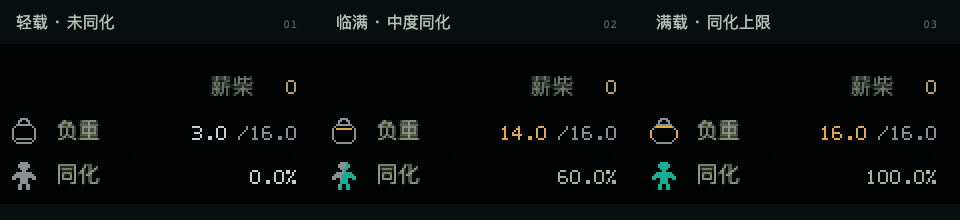
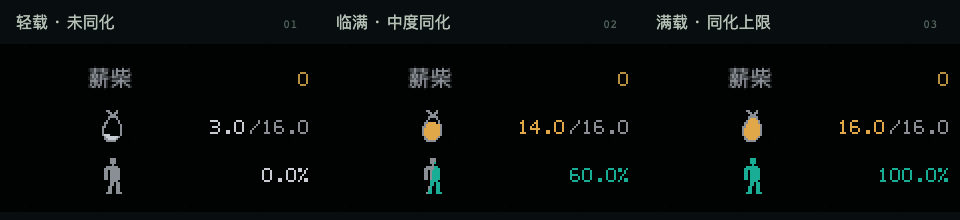
art: refine compact rift HUD symbols and align readouts

diff --git a/docs/art/previews/rift-hud-pressure/study.js b/docs/art/previews/rift-hud-pressure/study.js
@@ -45,27 +45,28 @@ function pixelText(target,text,x,y,color,size=11,align='left') {
   }
 }
 
+// One identifier column, one numeric right edge, equal 24px row pitch.
+const hudLayout=Object.freeze({width:112,height:68,identifierWidth:24,valueRight:110,rowPitch:24});
 function paintHud(target,s,time=0,feedback=0) {
-  target.clearRect(0,0,148,64);target.imageSmoothingEnabled=false;
-  pixelText(target,'薪柴',123,0,'#71816e',10,'right');
-  pixelText(target,'0',144,0,'#b39b75',11,'right');
-  drawBurden(target,0,20,s.weight/16,time,feedback);
-  pixelText(target,'负重',24,22,'#8e9b83',10);
-  pixelText(target,s.weight.toFixed(1),109,23,s.weight>=14?'#e0a848':'#c8cdd4',12,'right');
-  pixelText(target,'/16.0',115,23,'#8a8f96',10);
-  drawAssimilation(target,0,42,s.assimilation,time,s.growing&&s.assimilation<100&&s.assimilation>0);
-  pixelText(target,'同化',24,44,'#8e9b83',10);
-  pixelText(target,`${s.assimilation.toFixed(1)}%`,144,45,s.assimilation>=60?'#a5b09a':'#c8cdd4',12,'right');
+  target.clearRect(0,0,hudLayout.width,hudLayout.height);target.imageSmoothingEnabled=false;
+  pixelText(target,'薪柴',0,4,'#8a8f96',10);
+  pixelText(target,'0',hudLayout.valueRight,4,'#b89040',11,'right');
+  drawBurden(target,4,24,s.weight/16,time,feedback);
+  const weight=s.weight.toFixed(1),capacity='/16.0';
+  pixelText(target,weight,hudLayout.valueRight-capacity.length*6-2,28,s.weight>=14?'#e0a848':'#c8cdd4',12,'right');
+  pixelText(target,capacity,hudLayout.valueRight,28,'#8a8f96',10,'right');
+  drawAssimilation(target,4,48,s.assimilation,time,s.growing&&s.assimilation<100&&s.assimilation>0);
+  pixelText(target,`${s.assimilation.toFixed(1)}%`,hudLayout.valueRight,52,s.assimilation>=60?'#1aad96':'#c8cdd4',12,'right');
 }
 
 function paintComparison() {
   const c=comparison.getContext('2d');c.imageSmoothingEnabled=false;c.fillStyle='#080d10';c.fillRect(0,0,960,220);
   presets.forEach((s,i)=>{
     const x=i*320;
-    c.drawImage(scene,784,8,160,80,x,44,320,160);
-    const tile=document.createElement('canvas');tile.width=148;tile.height=64;
+    c.drawImage(scene,784,16,160,84,x,44,320,168);
+    const tile=document.createElement('canvas');tile.width=hudLayout.width;tile.height=hudLayout.height;
     paintHud(tile.getContext('2d'),s,0,0);
-    c.drawImage(tile,x+8,76,296,128);
+    c.drawImage(tile,x+88,60,hudLayout.width*2,hudLayout.height*2);
     c.font='16px "PingFang SC",sans-serif';c.fillStyle='#b5c1b5';c.fillText(s.title,x+16,28);
     c.fillStyle='#52645b';c.font='12px monospace';c.fillText(`0${i+1}`,x+283,28);
   });
@@ -73,11 +74,11 @@ function paintComparison() {
 
 function paintMarks() {
   const c=marks.getContext('2d');c.imageSmoothingEnabled=false;c.fillStyle='#0b1013';c.fillRect(0,0,960,138);
-  const tile=document.createElement('canvas');tile.width=16;tile.height=16;const t=tile.getContext('2d');
+  const tile=document.createElement('canvas');tile.width=markSize.width;tile.height=markSize.height;const t=tile.getContext('2d');
   [3/16,14/16,1,0,60,100].forEach((v,i)=>{
-    t.clearRect(0,0,16,16);
+    t.clearRect(0,0,markSize.width,markSize.height);
     if(i<3)drawBurden(t,0,0,v,0,0);else drawAssimilation(t,0,0,v,0,false);
-    c.drawImage(tile,i*160+48,20,64,64);
+    c.drawImage(tile,i*160+48,12,markSize.width*4,markSize.height*4);
     c.fillStyle='#98a79d';c.textAlign='center';c.font='11px "PingFang SC",sans-serif';
     c.fillText(i<3?`负重 ${(v*16).toFixed(1)} / 16.0`:`同化 ${v}%`,i*160+80,118);
   });
@@ -99,11 +100,11 @@ document.querySelector('#replay').addEventListener('click',()=>state.feedbackSta
 await scene.decode();await document.fonts.ready;
 paintComparison();paintMarks();sync();
 window.__hudArt = {
-  presets, markSize,
+  presets, markSize, hudLayout,
   renderPreset(index){Object.assign(state,presets[index]);state.growing=false;sync();paintHud(ctx,state,0,0);},
   getState(){return {...state};},
   getSpriteSheet(){
-    const c=document.createElement('canvas');c.width=96;c.height=16;const g=c.getContext('2d');
+    const c=document.createElement('canvas');c.width=markSize.width*6;c.height=markSize.height;const g=c.getContext('2d');
     presets.forEach((s,i)=>{drawBurden(g,i*16,0,s.weight/16,0,0);drawAssimilation(g,(i+3)*16,0,s.assimilation,0,false);});
     return c.toDataURL('image/png');
   },

diff --git a/docs/art/previews/rift-hud-pressure/pixel-marks.js b/docs/art/previews/rift-hud-pressure/pixel-marks.js
@@ -1,7 +1,7 @@
-/** Art study only: 16 × 16 pixel symbols, at most two colours per frame. */
-const P = { neutral:'#8a8f96', warning:'#e0a848', alien:'#1aad96' };
+/** Art study only: 16 × 20 hard-pixel symbols, at most two colours per frame. */
+const P = { neutral:'#8a8f96', load:'#c8cdd4', warning:'#e0a848', alien:'#1aad96' };
 const clamp = (n,min,max) => Math.max(min,Math.min(max,Number(n)||0));
-export const markSize = Object.freeze({width:16,height:16});
+export const markSize = Object.freeze({width:16,height:20});
 
 function stamp(ctx,x,y,cells,colors) {
   ctx.save();ctx.imageSmoothingEnabled=false;
@@ -12,60 +12,66 @@ function stamp(ctx,x,y,cells,colors) {
 }
 
 export function drawBurden(ctx,x,y,ratio,time=0,feedback=0) {
-  const r=clamp(ratio,0,1),full=r>=.985;
+  const r=clamp(ratio,0,1);
   const rows=[
     '................',
-    '......NNNN......',
-    '.....NN..NN.....',
-    '.....N....N.....',
-    '....NNNNNNNN....',
-    '...N........N...',
-    '..N..........N..',
-    '..N..........N..',
-    '..N..........N..',
-    '..N..........N..',
-    '..N..........N..',
-    '..N..........N..',
-    '...N........N...',
-    '....NNNNNNNN....',
+    '.....NN...N.....',
+    '......NN.NN.....',
+    '.......NNN......',
+    '......NNNNN.....',
+    '......NIIIN.....',
+    '.....NIIIIIN....',
+    '....NNIIIIIN....',
+    '....NIIIIIIIN...',
+    '...NNIIIIIIIN...',
+    '...NIIIIIIIIN...',
+    '...NIIIIIIIIN...',
+    '...NIIIIIIIIN...',
+    '...NIIIIIIIIN...',
+    '....NIIIIIIN....',
+    '....NNIIIIN.....',
+    '.....NNNNN......',
+    '................',
     '................',
     '................',
   ].map(row=>[...row]);
-  // One movable loading line is the only interior mark. No cloth or hardware.
-  const lineY=12-Math.round(r*7);
-  for(let px=4;px<12;px++)rows[lineY][px]='A';
-  if(full){
-    for(const py of [7,8,9,10]){rows[py][1]='A';rows[py][14]='A';rows[py][2]='.';rows[py][13]='.';}
-  }
-  // A one-pixel downward settling motion follows the event, without a glow.
+  // Fill the sack's interior, bottom upwards; the tied mouth and edge stay intact.
+  const inside=[];
+  rows.forEach((row,py)=>row.forEach((cell,px)=>{if(cell==='I')inside.push([px,py]);}));
+  inside.sort((p,q)=>q[1]-p[1]||p[0]-q[0]);
+  for(let i=0;i<Math.round(r*inside.length);i++){const [px,py]=inside[i];rows[py][px]='A';}
   const settle=feedback>.5?1:0;
-  stamp(ctx,x,y+settle,rows.map(row=>row.join('')),{N:P.neutral,A:r>=.875?P.warning:P.neutral});
+  stamp(ctx,x,y+settle,rows.map(row=>row.join('')),{N:P.neutral,A:r>=.875?P.warning:P.load});
 }
 
 export function drawAssimilation(ctx,x,y,amount,time=0,growing=false) {
   const a=clamp(amount,0,100);
   const base=[
     '................',
-    '......NNNN......',
+    '.......NNN......',
+    '.......NNN......',
+    '.......NNN......',
+    '........N.......',
     '.....NNNNNN.....',
-    '.....NNNNNN.....',
-    '......NNNN......',
-    '.......NN.......',
     '....NNNNNNNN....',
-    '...NNNNNNNNNN...',
-    '..NNNNNNNNNNNN..',
-    '..NN..NNNN..NN..',
-    '......NNNN......',
-    '......NNNN......',
-    '.....NN..NN.....',
-    '.....NN..NN.....',
-    '.....NN..NN.....',
+    '....NN.NNNNN....',
+    '....NN.NNNNN....',
+    '....NN.NNNNN....',
+    '....NN.NNNNN....',
+    '....NN.NNNNN....',
+    '.......NNNN.....',
+    '.......NN.NN....',
+    '.......NN.NN....',
+    '......NN..NN....',
+    '......NN..NN....',
+    '......NN..NN....',
+    '.....NNN..NNN...',
     '................',
   ];
   const cells=base.map(row=>[...row]);
   const body=[];cells.forEach((row,py)=>row.forEach((c,px)=>{if(c==='N')body.push([px,py]);}));
-  // A coherent diagonal replacement, not spot texture or additional detail.
-  body.sort((p,q)=>(q[0]+q[1]*.32)-(p[0]+p[1]*.32));
+  // A contiguous invasion of the same adult silhouette, without face or texture.
+  body.sort((p,q)=>(q[0]+q[1]*.22)-(p[0]+p[1]*.22));
   const count=Math.round(a/100*body.length);
   for(let i=0;i<count;i++){const [px,py]=body[i];cells[py][px]='A';}
   if(growing&&a>0&&a<100&&Math.floor(time/650)%2&&count<body.length){

diff --git a/docs/art/previews/rift-hud-pressure/study.css b/docs/art/previews/rift-hud-pressure/study.css
@@ -1,1 +1,1 @@
-*{box-sizing:border-box}body{margin:0;background:#101517;color:#aeb7b1;font-family:"PingFang SC","Microsoft YaHei",sans-serif}main{width:1032px;margin:0 auto;padding:38px 36px 48px}header{margin-bottom:26px}.eyebrow{font:10px/1.4 monospace;letter-spacing:2px;color:#74887e;margin:0 0 12px}h1{font-size:28px;font-weight:500;letter-spacing:2px;margin:0 0 9px}header>p:last-child{font-size:12px;color:#819089;margin:0}nav{display:flex;gap:24px;margin-bottom:15px}button{font:12px "PingFang SC",sans-serif;color:#83938a;border:0;border-bottom:1px solid transparent;background:none;padding:7px 0;cursor:pointer}button:hover,button:focus-visible{color:#d0d3c4}button.selected{color:#ced2c1;border-bottom-color:#8c9e86}.scene{position:relative;width:960px;height:640px;background:#000}.scene img{display:block;image-rendering:pixelated}.scene #hud{position:absolute;right:24px;top:24px;width:148px;height:64px;image-rendering:pixelated;pointer-events:none}.controls{display:flex;align-items:center;gap:24px;padding:17px 0 9px;font-size:11px}.controls label{display:flex;align-items:center;gap:8px}.controls input[type=range]{width:100px;accent-color:#8b9d88}.controls output{width:76px;font:11px monospace;color:#bec6b9}.controls label.toggle{gap:4px;color:#829489}.controls input[type=checkbox]{accent-color:#7e9388}.controls button{font-size:11px;color:#b7a180}.caption{font-size:11px;line-height:1.7;color:#71827a;margin:0}section{margin-top:36px}.section-heading{display:flex;align-items:baseline;justify-content:space-between;margin-bottom:12px}h2{font-size:15px;font-weight:500;margin:0}.section-heading span{font-size:10px;letter-spacing:.6px;color:#71827a}#comparison{width:960px;height:220px;display:block;image-rendering:pixelated}#marks{width:960px;height:138px;display:block;image-rendering:pixelated}footer{margin-top:25px;padding-top:18px;border-top:1px solid #28332f;font-size:11px;color:#798b80;line-height:1.8}
+*{box-sizing:border-box}body{margin:0;background:#101517;color:#aeb7b1;font-family:"PingFang SC","Microsoft YaHei",sans-serif}main{width:1032px;margin:0 auto;padding:38px 36px 48px}header{margin-bottom:26px}.eyebrow{font:10px/1.4 monospace;letter-spacing:2px;color:#74887e;margin:0 0 12px}h1{font-size:28px;font-weight:500;letter-spacing:2px;margin:0 0 9px}header>p:last-child{font-size:12px;color:#819089;margin:0}nav{display:flex;gap:24px;margin-bottom:15px}button{font:12px "PingFang SC",sans-serif;color:#83938a;border:0;border-bottom:1px solid transparent;background:none;padding:7px 0;cursor:pointer}button:hover,button:focus-visible{color:#d0d3c4}button.selected{color:#ced2c1;border-bottom-color:#8c9e86}.scene{position:relative;width:960px;height:640px;background:#000}.scene img{display:block;image-rendering:pixelated}.scene #hud{position:absolute;right:24px;top:24px;width:112px;height:68px;image-rendering:pixelated;pointer-events:none}.controls{display:flex;align-items:center;gap:24px;padding:17px 0 9px;font-size:11px}.controls label{display:flex;align-items:center;gap:8px}.controls input[type=range]{width:100px;accent-color:#8b9d88}.controls output{width:76px;font:11px monospace;color:#bec6b9}.controls label.toggle{gap:4px;color:#829489}.controls input[type=checkbox]{accent-color:#7e9388}.controls button{font-size:11px;color:#b7a180}.caption{font-size:11px;line-height:1.7;color:#71827a;margin:0}section{margin-top:36px}.section-heading{display:flex;align-items:baseline;justify-content:space-between;margin-bottom:12px}h2{font-size:15px;font-weight:500;margin:0}.section-heading span{font-size:10px;letter-spacing:.6px;color:#71827a}#comparison{width:960px;height:220px;display:block;image-rendering:pixelated}#marks{width:960px;height:138px;display:block;image-rendering:pixelated}footer{margin-top:25px;padding-top:18px;border-top:1px solid #28332f;font-size:11px;color:#798b80;line-height:1.8}

diff --git a/docs/art/previews/rift-hud-pressure/index.html b/docs/art/previews/rift-hud-pressure/index.html
@@ -8,13 +8,13 @@
 </head>
 <body>
   <main>
-    <header><p class="eyebrow">COH / HUD ART STUDY</p><h1>负重与同化</h1><p>16 × 16 简形图标，三组观察状态。仅美术样例，未接入游戏。</p></header>
+    <header><p class="eyebrow">COH / HUD ART STUDY</p><h1>负重与同化</h1><p>16 × 20 硬像素图标，三组观察状态。仅美术样例，未接入游戏。</p></header>
     <nav aria-label="观察状态">
       <button data-preset="0">轻载 · 未同化</button>
       <button data-preset="1" class="selected">临满 · 中度同化</button>
       <button data-preset="2">满载 · 同化上限</button>
     </nav>
-    <div class="scene" id="scene"><img src="./scene.png" alt="当前裂隙真实场景参考" width="960" height="640"><canvas id="hud" width="148" height="64" aria-label="负重与同化像素样例"></canvas></div>
+    <div class="scene" id="scene"><img src="./scene.png" alt="当前裂隙真实场景参考" width="960" height="640"><canvas id="hud" width="112" height="68" aria-label="负重与同化像素样例"></canvas></div>
     <div class="controls">
       <label>负重 <input id="weight" type="range" min="0" max="16" value="14" step="0.1"><output id="weight-value">14.0 / 16.0</output></label>
       <label>同化 <input id="assimilation" type="range" min="0" max="100" value="60" step="1"><output id="assimilation-value">60.0%</output></label>
@@ -24,7 +24,7 @@
     <p class="caption">上图为 960 × 640 实景原尺寸。负重与同化可独立调整；增长开关只演示像素动效，不运行机制。</p>
     <section><div class="section-heading"><h2>右上角细看</h2><span>三种状态 · 2× 最近邻</span></div><canvas id="comparison" width="960" height="220"></canvas></section>
     <section><div class="section-heading"><h2>简形图标</h2><span>透明底原稿 · 4× 最近邻</span></div><canvas id="marks" width="960" height="138"></canvas></section>
-    <footer>负重：包轮廓与装载线。 同化：逐步被异色替换的人形。<br>演示速度不代表游戏增长速度；100%是同化上限，不表示死亡。</footer>
+    <footer>负重：抽绳布袋，由下向上填满。 同化：瘦长成人轮廓，异色逐步侵入。<br>演示速度不代表游戏增长速度；100%是同化上限，不表示死亡。</footer>
   </main>
   <script type="module" src="./study.js"></script>
 </body>

diff --git a/docs/art/previews/rift-hud-pressure/README.md b/docs/art/previews/rift-hud-pressure/README.md
@@ -2,14 +2,14 @@
 
 COH-F032 / COH-F054 · 2026-10-19 · 纯美术预览，待用户看图，未接入游戏。
 
-用户否决上一版32×40材质贴图：太重、过于复杂。当前改为16×16图标，每状态最多两色、100个实心像素；不画体积、布纹、扣件、胸肩明暗。负重由包轮廓与一条装载线表示，同化由完整人形剪影和单侧替换色表示。每项收成单行，图标与名称数值并排；整个右上预览高度116→64px。
+按本轮六点反馈重画：负重为抽绳布袋，袋内从下向上连续填满；同化为小头、窄肩、垂臂和长腿的成人剪影，以连贯异色表示侵入。两项名称从HUD移除。薪柴沿用文字标识，三行统一24px标识列、数字右缘与24px行距，不随数字长度漂移。
 
-真实960×640场景沿用上轮生产截图。原生尺寸是主要判断依据；图册提供2倍局部与4倍图标最近邻放大。中文保留当前游戏字体，数字与图形使用硬像素。
+原稿16×20，每状态最多两色。延长高度用于成人比例，满载由实心面积表达，因此原100像素预算改为128（实测最大114）；仍无体积明暗、布纹、扣件、外框、渐变和半透明像素。固定960×640实景中总占位112×68。原生尺寸是主要判断依据；图册提供2倍局部与4倍图标最近邻放大。中文保留游戏字体，数字与图形使用硬像素。
 
 固定机制：负重50%后连续减速、87.5%强调；同化跨局0–100，上限不等于死亡。预览两值独立，只有演示增长时推进一格侵蚀；受力反馈只做一次1px下沉。没有新增机制或正式输入。
 
-- [三状态](comparison.png) · [实景](scene-1.png) · [图标放大](marks-enlarged.png) · [16px原生图集](marks-native.png)
-- [检查回执](art-check.json)：六状态均非空、不透明像素≤100、色数≤2、半透明像素0、色板外0；三状态互异，增长开关/受力反馈/独立滑杆通过，页面零脚本错误。
+- [三状态](comparison.png) · [实景](scene-1.png) · [图标放大](marks-enlarged.png) · [原生图集](marks-native.png)
+- [检查回执](art-check.json)：六状态非空、色数≤2、半透明像素0、色板外0；负重0/25/50/75/100%逐步增加内部占用、不擦除边线；三行数字右缘与底线一致；状态互异、增长开关/受力反馈/独立滑杆通过，页面零脚本错误。
 - 可重跑：本地3027服务运行时执行 `node docs/art/previews/rift-hud-pressure/render.mjs`；可用COH_QA_BASE_URL与COH_PLAYWRIGHT_MODULE覆盖环境。
 
-本轮将用户指出的“过大、过复杂”落实为16×16／两色／100像素上限，检查不代替用户对辨识度与审美的判断。上一版由Git保留，当前页不混放被否决版本。架构与机制spec不变，正式HUD未切换。
+机器检查不代替辨识度和审美的人审。被否决版本由Git保留，当前页只展示本轮。架构与机制spec不变，正式HUD未切换。

diff --git a/docs/art/previews/rift-hud-pressure/art-notes.md b/docs/art/previews/rift-hud-pressure/art-notes.md
@@ -1,9 +1,13 @@
 # 简形图标修正
 
-COH-F032 / F054，2026-10-19。上一版实体插画式的包和胸肩被用户否决，本轮只做HUD图标。
+COH-F032 / F054，2026-10-19。用户认可轻量方向，但指出公文包、幼态人形、填充和对齐问题；本轮只修美术预览。
 
-载体仍为右上屏幕读数，16×16单剪影；负重保留一个包轮廓和一条装载线，同化保留一个完整人形及连贯替换色。名称/数值常驻并列，图标不独自解释精确百分比。无体积明暗、纹理、装备细节和图框；整体单行22px步进。
+载体仍为右上屏幕读数。负重需要让人想到随身装载，采用收口软布袋；排除硬箱、提手和扣件。负重填色连续从袋底向上覆盖内部，保留袋口与边线。同化需要保持“人的变化”，缩小头部，使用垂臂、长腿及略不对称的成人轮廓；不画五官、胸像或外张的幼儿手臂。两者均16×20原生网格，以硬边块面和有意的阶梯转折构形。
 
-参考沿Kit：Darkwood取边缘留白、Signalis取身体/物资短标记、Hyper Light Drifter取硬边；不复制其界面皮肤。像素颜色限现有palette：neutral灰、warning黄、alien绿，每帧最多两色。纯图标允许轮廓线，不套世界实体的面色/透视规则。
+布局是24px标识列、固定数字右缘、24px行距；薪柴文字与两个居中的图标共用标识列。去掉HUD的负重/同化名称，精确数字继续常驻，不另加解释。整个组112×68，无底板和线条分隔。
 
-实际原生实景与2倍局部已查看：两项缩到与读数相邻的符号尺度，不再形成胸像或背包插画。艺术方向及语义辨识待用户确认。量化约束与实际运行结果在art-check.json，不代签审美。
+参考沿Kit：Darkwood取边缘留白，Signalis取身体/物资短标记，Hyper Light Drifter取硬边；不复制其界面皮肤。沿现有palette，灰为常态，黄为装载临界，绿为同化；每帧最多两色。纯图标允许轮廓线，不套世界实体的透视规则。
+
+三问：①以单一轮廓、连续填色和对齐控制视觉重量，最终审美待人判断；②用物资/身体符号服务快速读数，按钮与解释只存在于样例控制区；③保留真实裂隙场景、已有警示色与克制尺寸，不添加皮革、金属箱等外来材质。相关U项检查限定为固定坐标、紧凑层级、真实状态含义与清晰数值；无正式交互变更。
+
+原生实景、2倍局部和4倍轮廓已查看；独立art已核看这三张图，未提出必要返工；机器验证见art-check.json，两者均不代签用户验收。

diff --git a/docs/tasks/rift-experience-polish-2026-10-19.md b/docs/tasks/rift-experience-polish-2026-10-19.md
@@ -26,7 +26,7 @@ features: COH-F032 / COH-F035 / COH-F054 / COH-F007 / COH-F039 / COH-F042
 
 用户随后要求移除左上“操作 · 展开 / 收起”：整组操作帮助入口、折叠正文与专属样式已删除，其余HUD读数和实际键位保持。
 
-右上角压力表达进入纯美术预览：首版32×40重材质贴图被用户否决；已改16×16、最多两色的简形图标，负重为包轮廓／装载线，同化为人形／侵蚀色，单行排布。[像素样例](../art/previews/rift-hud-pressure/index.html)提供同一组合的三组状态、独立数值调节及局部动效。COH-F032/F054，尚未获选或接入生产；游戏机制、当前HUD保持，不能把预览当正式完成。
+右上角压力表达进入纯美术预览：首版32×40重材质贴图被用户否决；本轮按后续六点反馈改为16×20、最多两色的简形图标：负重为抽绳布袋／内部连续填充，同化为瘦长成人／侵蚀色；HUD移除两项名称，三行共用标识列、数字右缘与24px行距。[像素样例](../art/previews/rift-hud-pressure/index.html)提供同一组合的三组状态、独立数值调节及局部动效。COH-F032/F054，尚未获选或接入生产；游戏机制、当前HUD保持，不能把预览当正式完成。
 
 唯一交互合同原地维护在同化/库存/污染所属spec，视觉规则归现行UI Kit；本任务只记范围和推进，不另立第二套UI规范。
 
